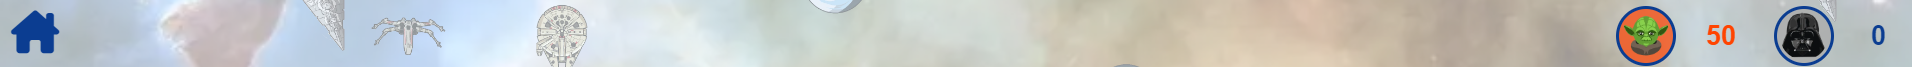
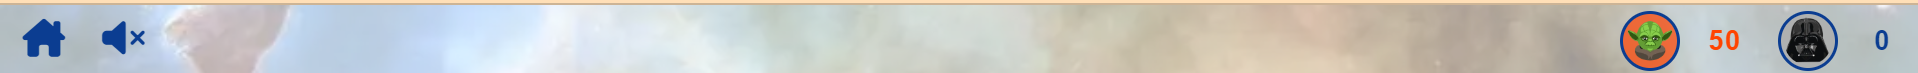
Doc: change images after addition buttons and add Game rules page

diff --git a/README.md b/README.md
@@ -2,18 +2,18 @@
 
 # GALACTIC SHOWDOWN
 
-Galactic Showdown is a game for lovers of galactic battles. The user can select one of the sides: dark or light and has to destroy all enemy ships and none of their own. At the end of the game, the user gets a score which can be saved in the leaderboard.
+Galactic Showdown is a game for the fans of galactic battles. The user can select one of the sides - dark or light and has to destroy all enemy ships and none of their own. At the end of the game, the user gets a score which can be saved in the leaderboard.
 
 The game can be accessed by this [link](https://bogdanovaiv.github.io/galactic-showdown/)
 
 ![Responsive Mockup](documentation/galactic-showdown-mockup.png)
 
 ## Game Rules
-First, you have to select one of the sides. The Light Side <img src="assets/images/yoda.webp" alt = "Yoda" width="50px"> has those ships:
+First, you have to select one of the sides. The Light Side <img src="assets/images/yoda.webp" alt = "Yoda" width="50px"> has these ships:
 
 ![The Light Side ships](assets/images/light-side-ships.png)
 
-The Dark Side <img src="assets/images/darth-vader.webp" alt = "Darth Vader" width="50px"> has those ships:
+The Dark Side <img src="assets/images/darth-vader.webp" alt = "Darth Vader" width="50px"> has these ships:
 
 ![The Dark Side ships](assets/images/dark-side-ships.png)
 
@@ -21,7 +21,7 @@ Second, you select the map where you will play.
 
 ![Maps](assets/images/maps.png)
 
-You get 50 scores for your ships and 0 for enemy ships. Click on the ship to shoot it. When you shoot your ship the number of your ships reduces, shooting an enemy ship adds the score of destroyed enemy ships.
+You get 50 scores for your ships and 0 for enemy ships. Click on the ship to shoot it. When you shoot your ship the number of your ships reduces, shooting an enemy ship increases the score of destroyed enemy ships.
 The total score is calculated as your ships plus destroyed enemy ships.
 The maximum score is 100.
 
@@ -41,13 +41,29 @@ __Returning Or Regular Visitors__
 
 ### Existing Features
 
-__The page "Home"__
+__The Home page__
+
+- The header has two buttons. The first is the Game Rules button that opens the Game Rules page where the user can read the instructions of the game. The second is the Volume button that turns on/off volume.
+
+![The Header](documentation/header-home.png)
+
+- The Game Rules button has a hover effect: changing color.
+
+![The Game Rules button (hover effect)](documentation/header-home-info-hover.png)
+
+- The Volume button changes the image when the user clicks on it.
+
+![The Volume button (click)](documentation/header-home-volume-off.png)
+
+- The Volume button has a hover effect: changing color.
+
+![The Volume button (hover effect)](documentation/header-home-info-hover.png)
 
 - The page has the feature to select one of the sides. The selected side has an orange background.
 
 ![Selecting sides](documentation/select-sides.png)
 
-- The button "side" has a hover effect: changing color.
+- The Side button has a hover effect: changing color.
 
 ![Selecting sides (hover effect)](documentation/select-sides-hover.png)
 
@@ -55,17 +71,17 @@ __The page "Home"__
 
 ![Selecting the map](documentation/select-map.png)
 
-- The button "map" has a hover effect: changing opacity.
+- The Map button has a hover effect: changing opacity.
 
 ![Selecting the map (hover effect)](documentation/select-map-hover.png)
 
-- The page has a section that is used to open the page "Leaderboard" where the user can find the list of user scores.
+- The page has a section that is used to open the Leaderboard page where the user can find the list of user scores.
 
-![The button "Leaderboard"](documentation/button-leaderboard.png)
+![The Leaderboard button ](documentation/button-leaderboard.png)
 
-- The button "Leaderboard" has a hover effect: changing the color of the border.
+- The Leaderboard button has a hover effect: changing the color of the border.
 
-![The button "Leaderboard" (hover effect)](documentation/button-leaderboard-hover.png)
+![The Leaderboard button (hover effect)](documentation/button-leaderboard-hover.png)
 
 __The page "Game"__
 
@@ -75,52 +91,66 @@ The page is the game place where the user plays.
 
 ![The special cursor](assets/images/target.png)
 
-- It has a score bar where the user can find scores and the button "Home" that redirects to the page "Home".
+- It has a score bar where the user can find scores, the Home button that redirects to the Home page and the Volume button which turns on/off volume.
 
 ![The score bar](documentation/scorebar-game.png)
 
-- The button "Home" has a hover effect: changing opacity.
+- The Home button has a hover effect: changing opacity.
 
-![The score bar (hover effect)](documentation/scorebar-game-hover.png)
+![The Home button (hover effect)](documentation/scorebar-game-hover.png)
 
-- The ships are created on the page and move down. When their position goes off the page, they disappear.
+- The Volume button changes the image when the user clicks on it.
+
+![The Volume button (click)](documentation/scorebar-game-volume-off.png)
+
+- The Volume button has a hover effect: changing color.
+
+![The Volume button (hover effect)](documentation/scorebar-game-volume-hover.png)
+
+- The ships appear on the page and move down. When their position goes off the page, they disappear.
 
 ![The game](documentation/game.png)
 
-- When the user clicks on the game place, call a sound effect. If this place contains a ship, call explosion sound effect, calculate scores and the ship disappears.
+- When the user clicks on the game place, there is a sound effect. If this place contains a ship, there is an explosion sound effect, the score is calculated and the ship disappears.
 
-- At the end of the game, appear the message "Game over" with the user score, and the button "Save" redirects to the page "Leaderboard".
+- At the end of the game, there appears the Game Over message with the user score, and the Save button redirects to the Leaderboard page.
 
 ![The game over](documentation/game-over.png)
 
-- The button "Save score" has a hover effect: changing the color of the border.
+- The Save Score button has a hover effect: changing the color of the border.
 
-![The game over (hover effect)](documentation/game-over-hover.png)
+![The Save Score (hover effect)](documentation/game-over-hover.png)
 
-__The page "Leaderboard"__
+__The Leaderboard page__
 
-- The page has the button "Home" that redirects to the page "Home".
+- The page has the Home button that redirects to the Home page.
 
-![The button "Home"](documentation/leaderboard-button-home.png)
+![The Home button](documentation/leaderboard-button-home.png)
 
-- The button "Home" has a hover effect: changing opacity.
+- The Home button has a hover effect: changing opacity.
 
-![The score bar (hover effect)](documentation/leaderboard-button-home-hover.png)
+![The Home button (hover effect)](documentation/leaderboard-button-home-hover.png)
 
 - The page has two conditions:
   1. Display the score. The user can find the other user scores sorted by the score.
 
-  ![The page "Leaderboard" displays only scores](documentation/leaderboard.png)
+  ![The Leaderboard page displays only scores](documentation/leaderboard.png)
   
   2. Display and save the score. The user can find the other user scores sorted by the score and save their score.
   
-  ![The page "Leaderboard" displays and saves scores](documentation/leaderboard-save.png)
+  ![The Leaderboard page displays and saves scores](documentation/leaderboard-save.png)
 
-  The button "Save" has a hover effect: changing color.
+  The Save button has a hover effect: changing color.
 
-  ![The button "Save" changes the color (hover effect)](documentation/leaderboard-button-save-hover.png)
+  ![The Save button changes the color (hover effect)](documentation/leaderboard-button-save-hover.png)
   
   ***Attention: the ability to save score is in development!!!***
+
+__The Game Rules page__
+
+- The page describes the game rules and has the Home button and the Volume button. The buttons have the same function as on the Leaderboard page.
+
+![The Game Rules page](documentation/game-rules.png)
 
 ## Technologies Used
 
@@ -128,6 +158,7 @@ __The page "Leaderboard"__
 - CSS - It is used to style elements and create page layout, for animation and responsive design.
 - Javascript - It is used to change HTML depending on parameters and create a game process.
 - [Github](https://github.com/) - It is used to store versions.
+- [GitPages](https://pages.github.com/) - This resource deploys the websites.
 - [ILoveImg](https://www.iloveimg.com/) - It is used to resize and shrink images.
 - [Font Awesome](https://fontawesome.com/) - It is used to paste icons, improve appearance and for web-page functionality. 
 
@@ -185,7 +216,7 @@ To deploy the project locally, clone the repository. You can do this by running 
 
 ### Acknowledgments
 
-- [Juliia Konovalova](https://github.com/IuliiaKonovalova/) was a great mentor who helped me to reveal my abilities and gave valuable advice.
+- [Juliia Konovalova](https://github.com/IuliiaKonovalova/) was a great mentor who helped me to tap my potential and gave valuable advice.
 - [The Code Institute team](https://codeinstitute.net/) supported me and provided all the information that I needed.
 - [GitHub](https://github.com/) provides free access to a versioning system.
 - [ILoveImg](https://www.iloveimg.com/) provided me with a free service to compress images.
